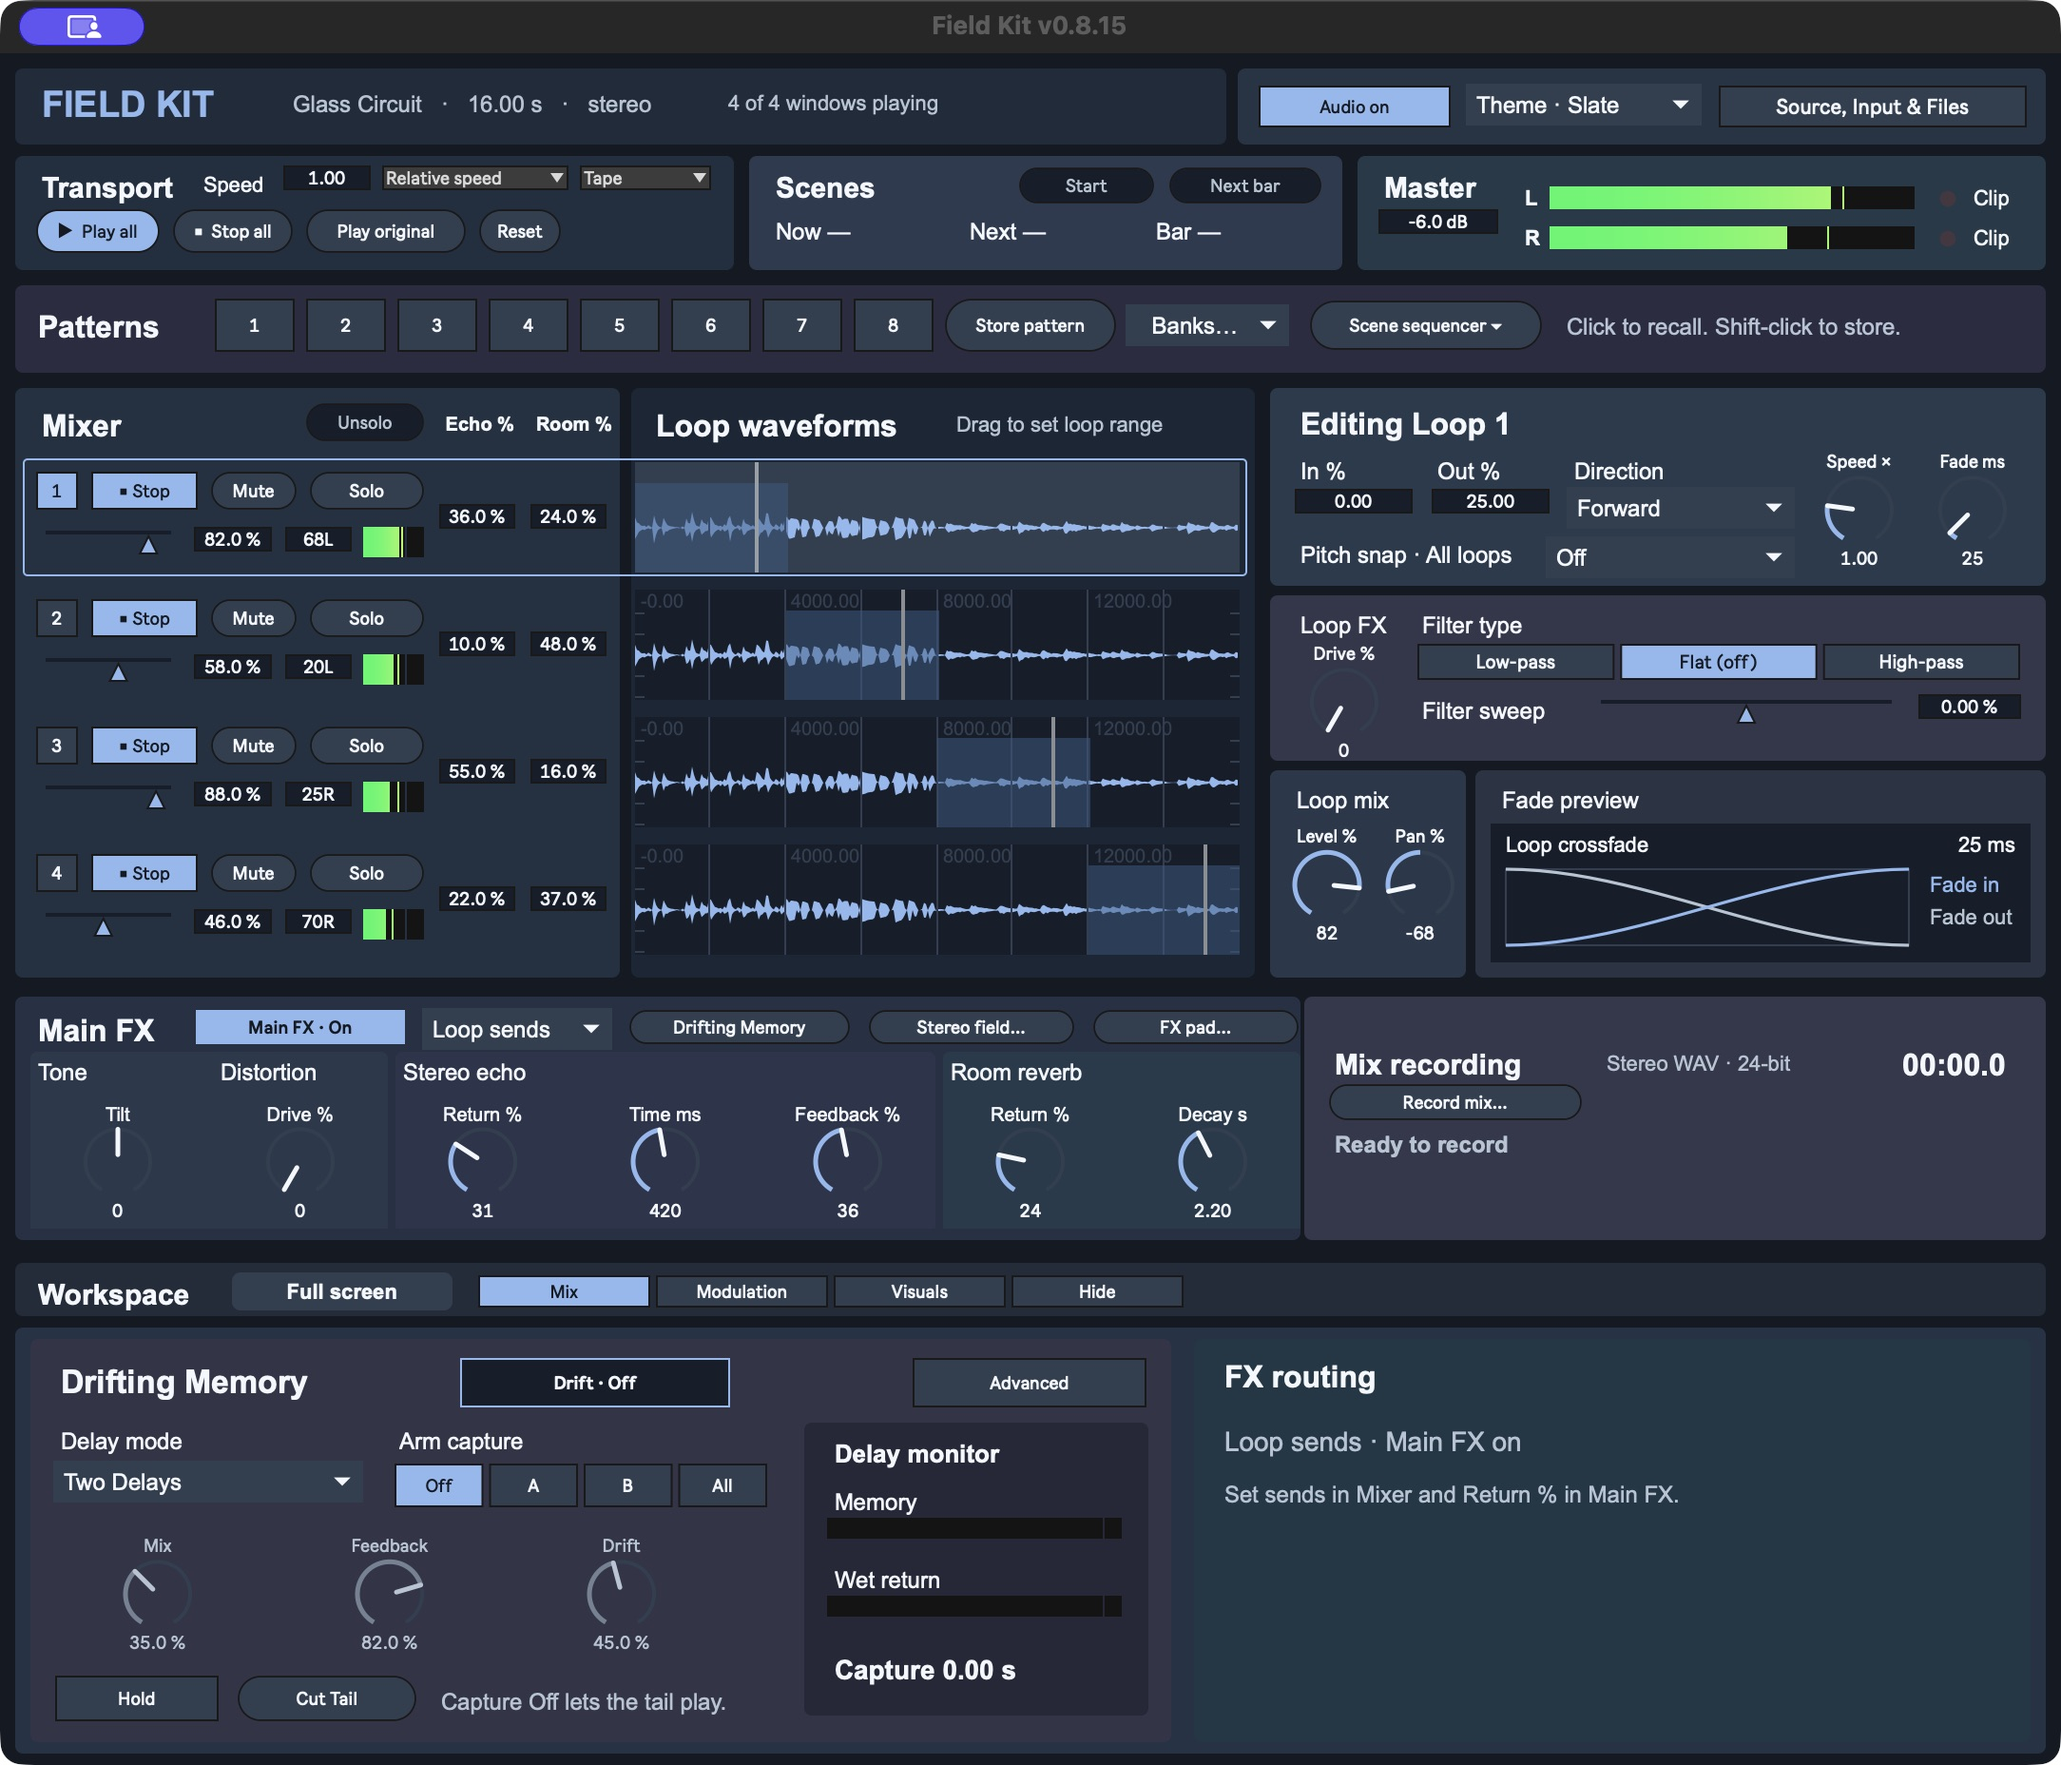
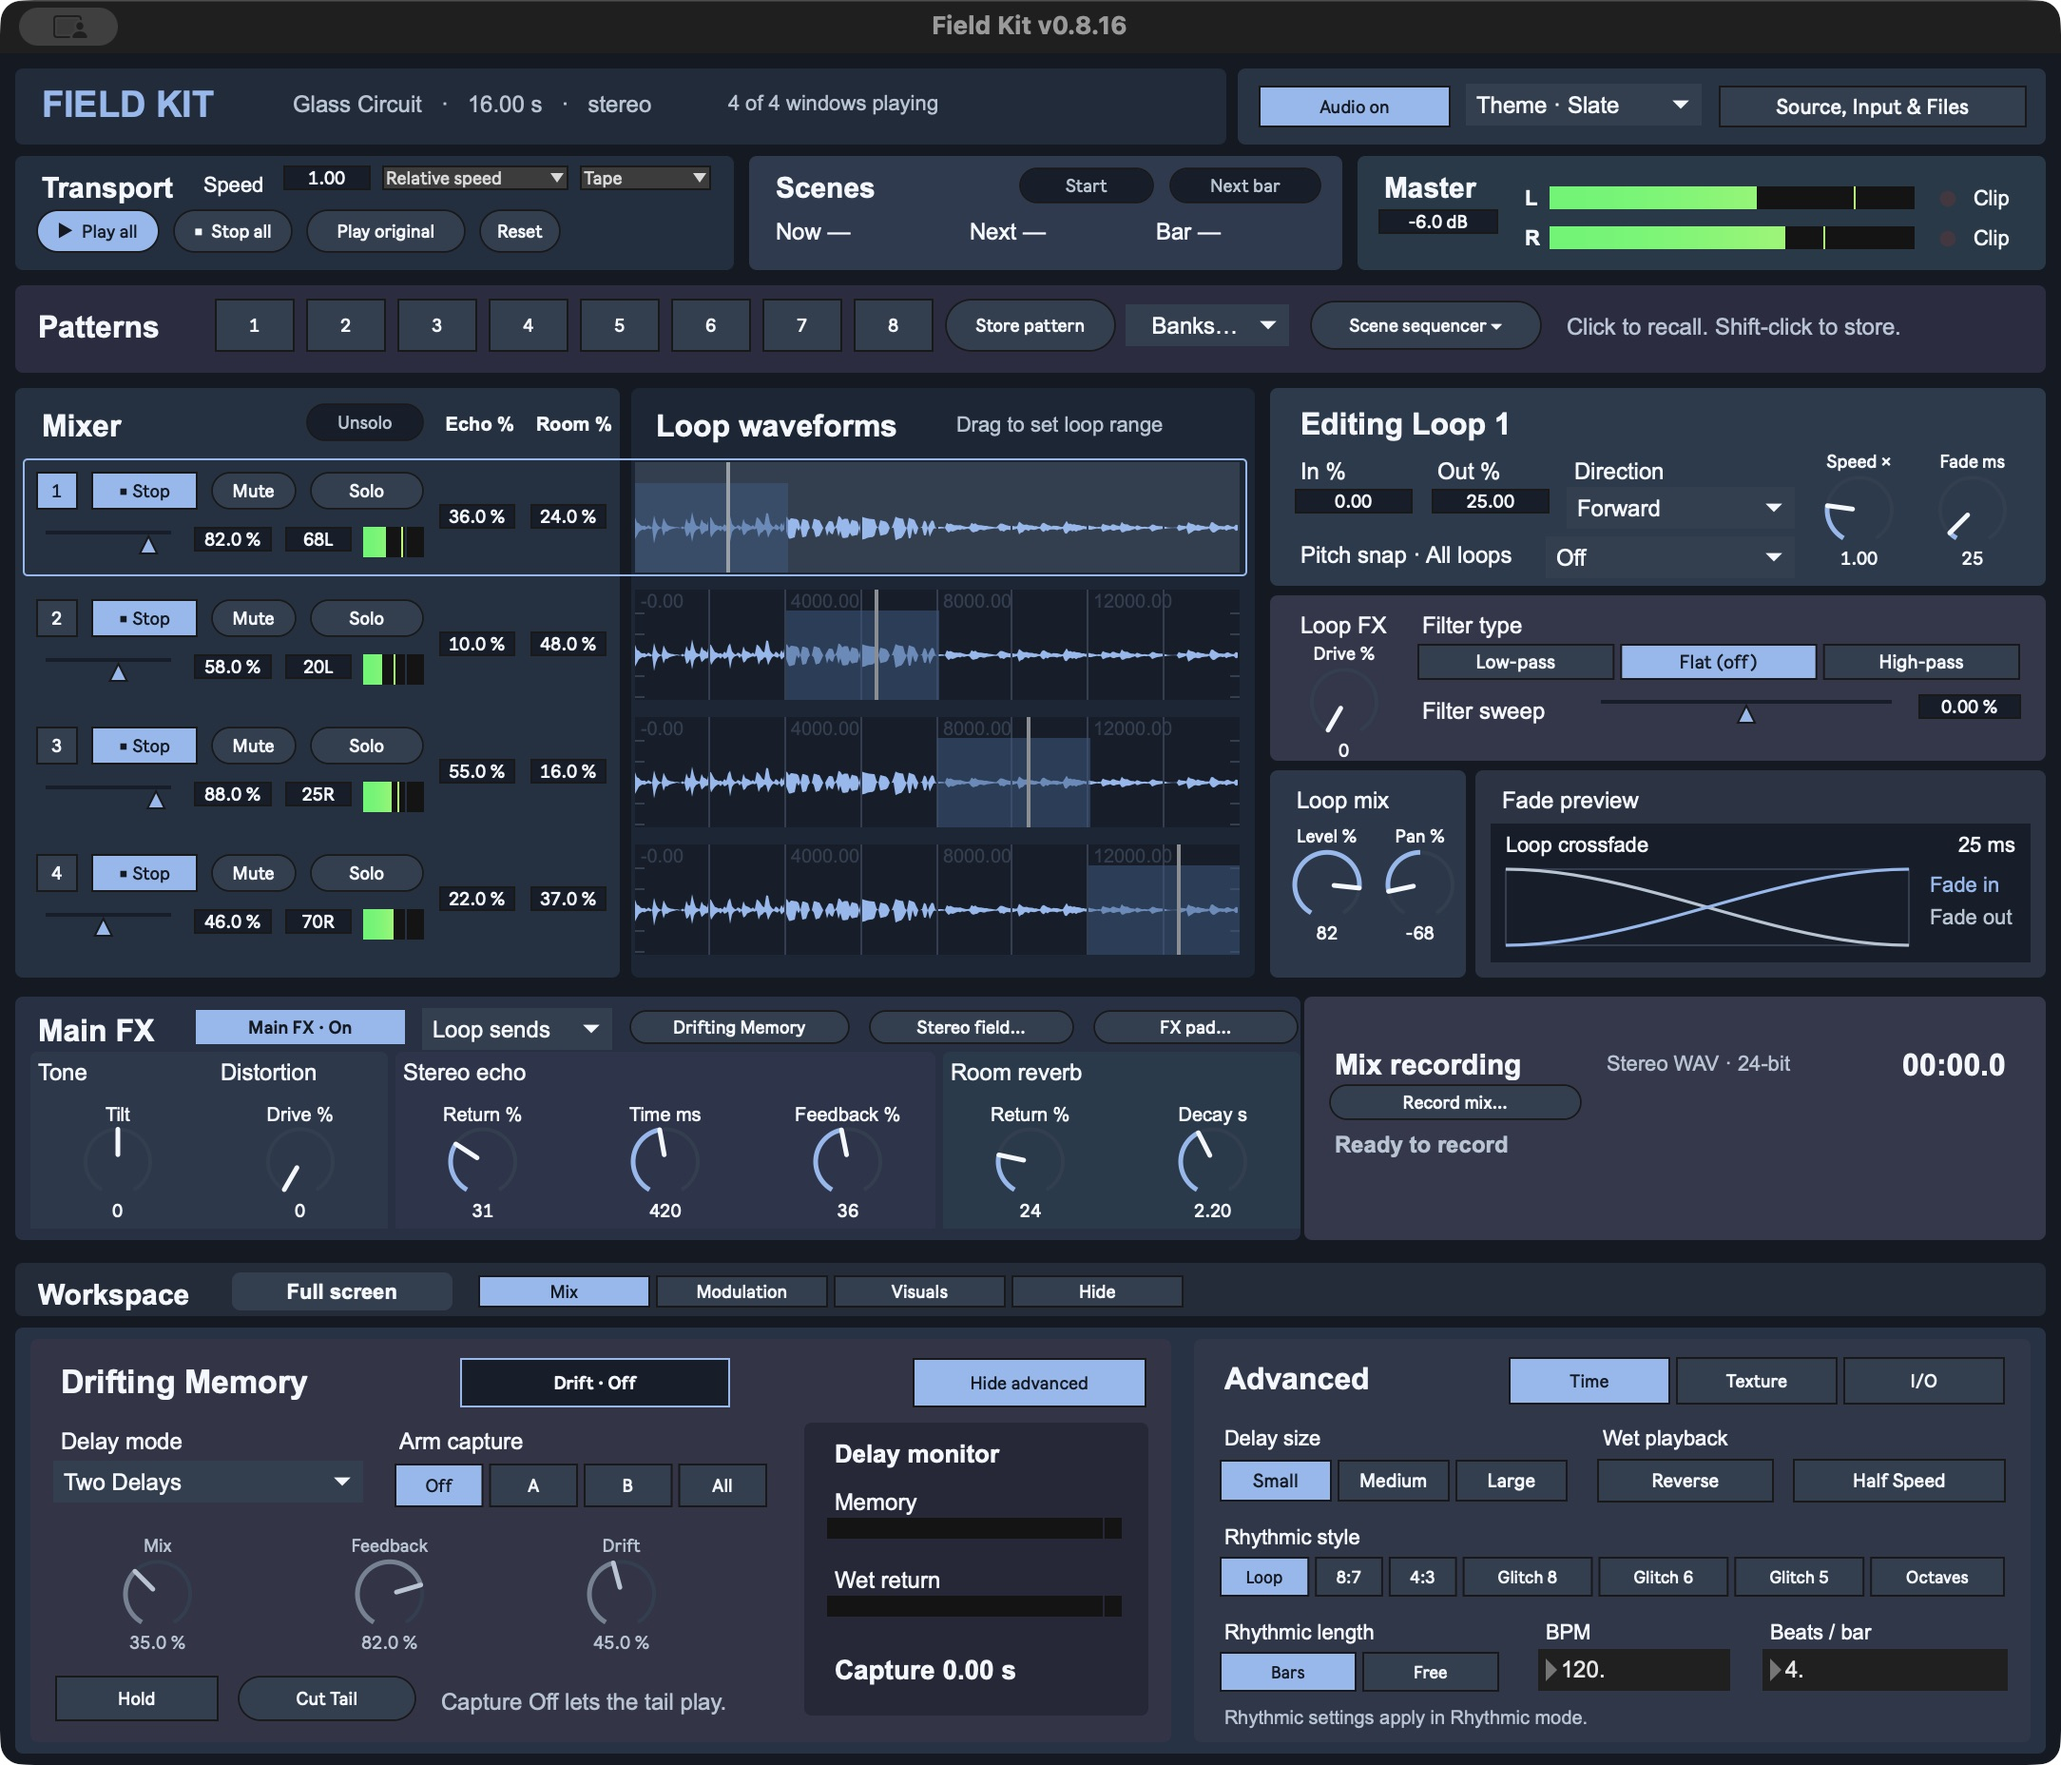
Release Field Kit v0.8.16 with Drifting Memory Advanced open

diff --git a/max/fk_theme.js b/max/fk_theme.js
@@ -9,7 +9,7 @@ var wideLayout = false;
 var activeWorkspace = 0;
 var workspaceBeforeScenes = 0;
 var workspaceTabs = [0, 2, 3, 4];
-var driftAdvanced = false;
+var driftAdvanced = true;
 var sourceDrawerOpen = false;
 var sourceDrawerHeight = 0;
 var windowLayout = [];

diff --git a/scripts/build.py b/scripts/build.py
@@ -558,6 +558,7 @@ def performance_mix(p):
     append_sends_strip(sends)
     workspace_panel("performance_sends", sends, MARGIN + PERFORMANCE_RIGHT_OFFSET,
                     PERFORMANCE_RIGHT_WIDTH, 1, [])
+    p.boxes[-1]["box"]["hidden"] = 1
     p.connect("mix_fx", 4 + FX_MOD_CHANNELS, "performance_sends")
 
 
@@ -788,7 +789,7 @@ def drifting_memory(p):
     view = [MARGIN + PERFORMANCE_RIGHT_OFFSET, MODULATION_TOP, PERFORMANCE_RIGHT_WIDTH, PERFORMANCE_HEIGHT]
     mod_count = len(DRIFT_MOD_TARGETS)
     p.add("drifting_memory", "bpatcher", [1410, 1840, 142, 22], view=view, ins=3 + mod_count, outs=6 + mod_count,
-          types=["signal"] * 4 + ["", ""] + ["signal"] * mod_count, patcher=panel, embed=1, hidden=1,
+          types=["signal"] * 4 + ["", ""] + ["signal"] * mod_count, patcher=panel, embed=1,
           border=0, offset=[0.0, 0.0], enablehscroll=0, enablevscroll=0, lockeddragscroll=0,
           clickthrough=0, bgmode=0)
     p.add("drifting_memory_show", "message", [1410, 1760, 108, 22], ins=2, text="drift_advanced 1")

diff --git a/scripts/package_max_download.py b/scripts/package_max_download.py
@@ -99,7 +99,7 @@ on a pad to replay its saved gesture.
 In Mix, click Drift · Off to enable Drifting Memory, play your loops and choose All under Arm capture.
 The default Two Delays / Small mode returns after about 2½ seconds. Memory shows
 the signal in the delay. Wet return shows how much the delay adds to the mix.
-Use Mix to blend it in and Off to stop writing. Advanced shows Time, Texture, and
+Use Mix to blend it in and Off to stop writing. Advanced opens in Mix at startup and shows Time, Texture, and
 I/O controls beside the delay. The mixer sends stay visible and the delay
 keeps playing either way. The Main FX shortcut opens the same drawer.
 Hold freezes the current memory. Cut Tail clears it and sets capture to Off while

diff --git a/scripts/build_mix_workspace.py b/scripts/build_mix_workspace.py
@@ -49,7 +49,7 @@ def append_drifting_strip(panel, parameter):
     control("advanced", "live.text", [463, 9, 125, 28], ["int", ""],
             text="Advanced", texton="Hide advanced", mode=1, parameter_mappable=0,
             hint="Show or hide advanced Drifting Memory controls beside this strip.",
-            **parameter("Drifting Memory Advanced view", 0, 0, 1, options=["Off", "On"]))
+            **parameter("Drifting Memory Advanced view", 1, 0, 1, options=["Off", "On"]))
     control("enabled", "live.text", [225, 9, 144, 28], ["int", ""],
             text="Drift · Off", texton="Drift · On", fontface=1, mode=1, parameter_mappable=0,
             hint="Enable the delay in the main mix. Bypassing it retains the memory.",

diff --git a/README.md b/README.md
@@ -7,11 +7,11 @@ FIELD KIT is a Max instrument that turns an audio file or a live recording into 
 - **[Download the latest Max patch](https://github.com/modelcollapse/field-kit/releases/latest/download/field-kit-max.zip).** Unzip it and double-click **Open FIELD KIT.maxpat** in Max 9. **START HERE.txt** has the quick instructions. Keep **Support** and the companion Max patches beside the launcher.
 - **[Download the latest standalone macOS app](https://github.com/modelcollapse/field-kit/releases/latest/download/field-kit-macos.zip).** Unzip it and open **Field Kit.app**. Max is not required.
 
-The v0.8.15 standalone includes Apple silicon and Intel binaries. It is ad hoc signed and has no Apple notarization. macOS may show a first launch alert. [Apple’s explanation of first launch alerts](https://support.apple.com/en-us/102445).
+The v0.8.16 standalone includes Apple silicon and Intel binaries. It is ad hoc signed and has no Apple notarization. macOS may show a first launch alert. [Apple’s explanation of first launch alerts](https://support.apple.com/en-us/102445).
 
-[See what's new in v0.8.15](CHANGELOG.md).
+[See what's new in v0.8.16](CHANGELOG.md).
 
-![Field Kit v0.8.15 playing four loops with Relative speed selected and the Record mix button ready](docs/screenshots/field-kit-standalone.jpg)
+![Field Kit v0.8.16 playing four demo loops with Drifting Memory Advanced open in Mix](docs/screenshots/field-kit-standalone.jpg)
 
 The original demo loads on startup. Click **Play all** to hear it. Open **Source, Input & Files → Demos…** to play **Glass Circuit** (120 BPM), **Tidal Lanterns** (75 BPM), or the original demo. Each new demo uses four equal loop regions and sets the scene tempo to match. Choose **Load audio…** to play your own sample. The same drawer holds audio setup, source recording, and Set files.
 
@@ -125,7 +125,7 @@ Click **● Record** in the FX pad to arm it. Drag across the grid as many times
 
 **Drifting Memory** runs at the end of Main FX. In **Mix**, click **Drift · Off** to turn it on, play the loops, then choose **All** under **Arm capture**. With **Two Delays** and **Small**, the first return takes about 2½ seconds. The **Memory** meter shows what’s circulating in the delay. **Wet return** shows what the delay adds to the final mix. Use **Mix** to blend it in. Choose **Off** under **Arm capture** to stop recording into memory while the tail plays. Sets and patterns save the effect settings. Captured memory is for the current session.
 
-Click **Advanced** to show the **Time**, **Texture**, and **I/O** controls beside Drifting Memory. The **Drifting Memory** shortcut in Main FX opens the same view. The mixer sends stay visible and the delay and its capture continue while you switch views.
+Drifting Memory starts with **Advanced** open in **Mix**, showing **Time**, **Texture**, and **I/O**. Click **Hide advanced** to collapse it. The **Drifting Memory** shortcut in Main FX opens Advanced again. The mixer sends stay visible and the delay and its capture continue while you switch views.
 
 Use **Hold** to freeze what’s in memory. **Cut Tail** clears the captured audio and turns capture off while the dry mix keeps playing. To capture again, release **Hold** if it’s on and choose a capture bank.
 

diff --git a/AGENTS.md b/AGENTS.md
@@ -3,3 +3,5 @@
 When publishing a Field Kit version, follow [the release checklist](docs/releasing.md). Ship the editable Max patch and the standalone macOS app together on the same GitHub release. Test both extracted downloads and review the updated screenshots before publishing. Record any platform or audio device checks that could not be run.
 
 When testing a build, close its scratch Max windows and any superseded standalone previews as soon as they are no longer needed. Keep the current preview available and leave documents with unsaved work open.
+
+When the user approves a Field Kit version, install the approved standalone and its matching ZIP together in `/Applications/Field Kit` and publish both tested builds to GitHub with updated instructions and screenshots. Verify the installed version, the public downloads, and their checksums. Then move only the verified superseded installed pair and redundant build artifacts to Trash. Preserve working folders, source audio, recordings, Sets, and any active sessions. Permanent deletion requires a separate explicit request.

diff --git a/CHANGELOG.md b/CHANGELOG.md
@@ -1,5 +1,9 @@
 # Field Kit changelog
 
+## v0.8.16
+
+- Drifting Memory starts with Advanced open in Mix.
+
 ## v0.8.15
 
 - Working folders lets you choose and remember separate import and recording locations.
